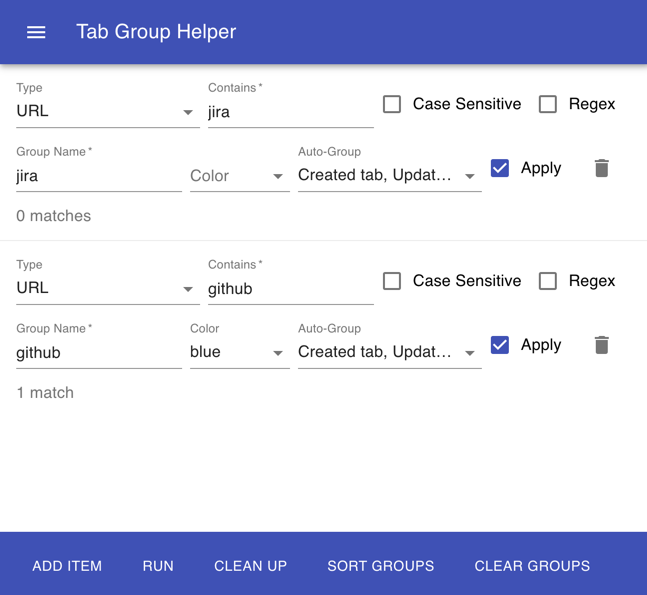
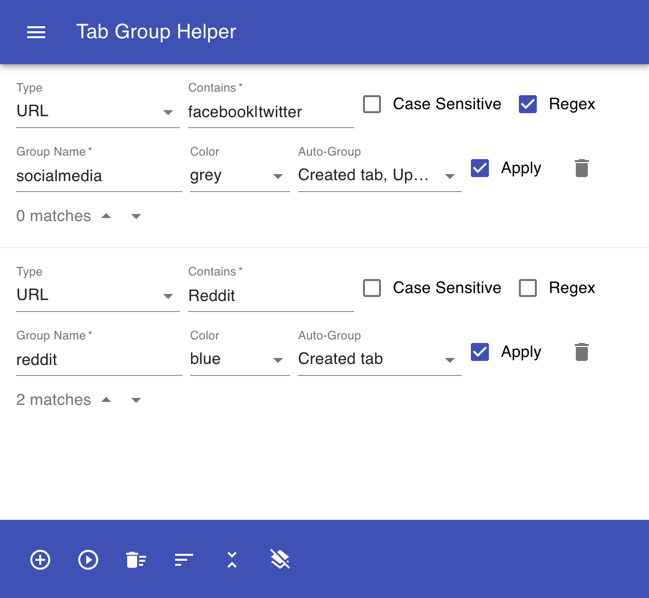
Update screenshot in README as it was outdated

diff --git a/README.md b/README.md
@@ -7,7 +7,7 @@
 
 This is the source code for a Google Chrome extension that allows the user to set up a bunch of rules to which they can manage groups and tabs by title or URL.
 
-<img src="screenshot.png" alt="picture of extension" width="600" />
+<img src="screenshot.png?3" alt="picture of extension" width="600" />
 
 ## Other Features
 
